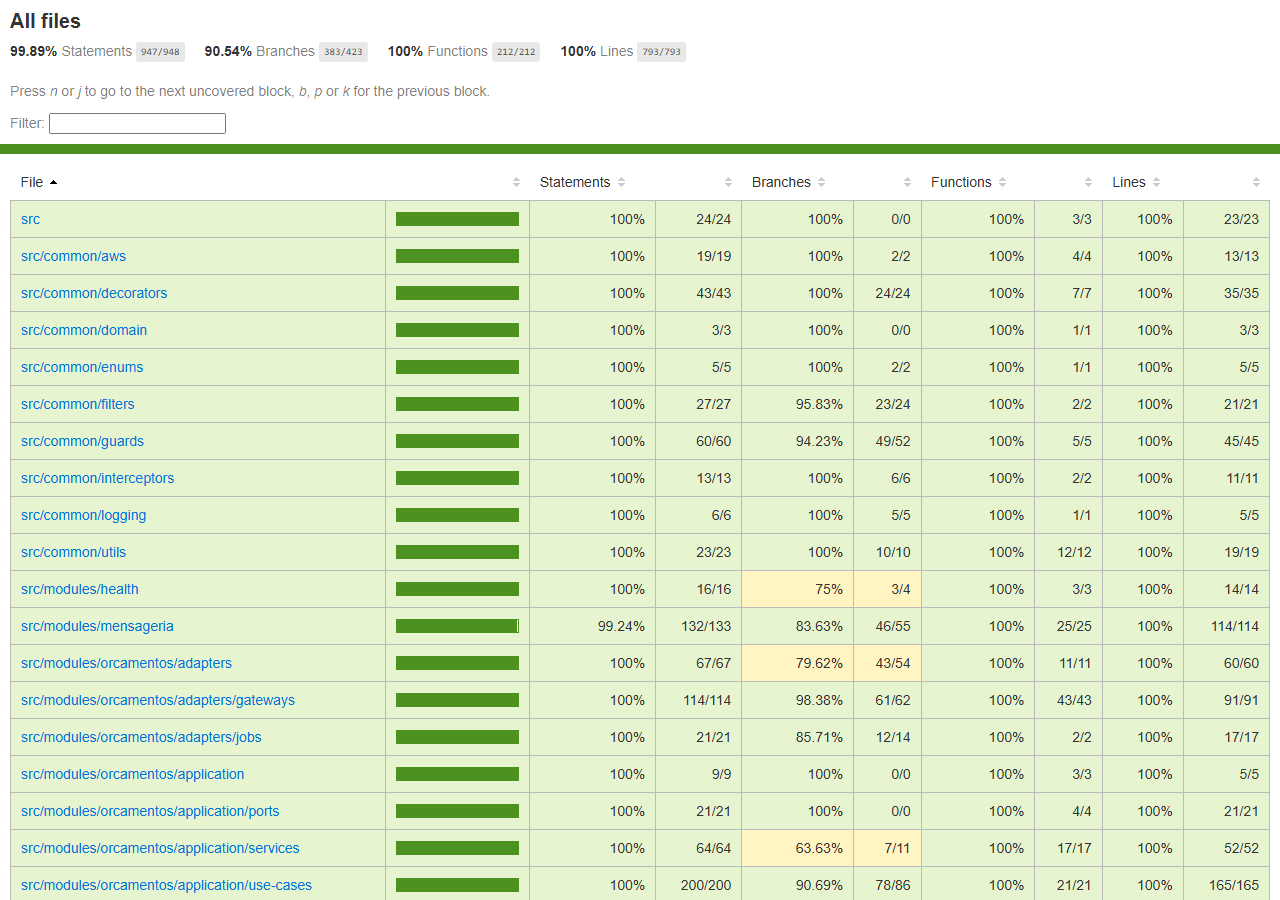
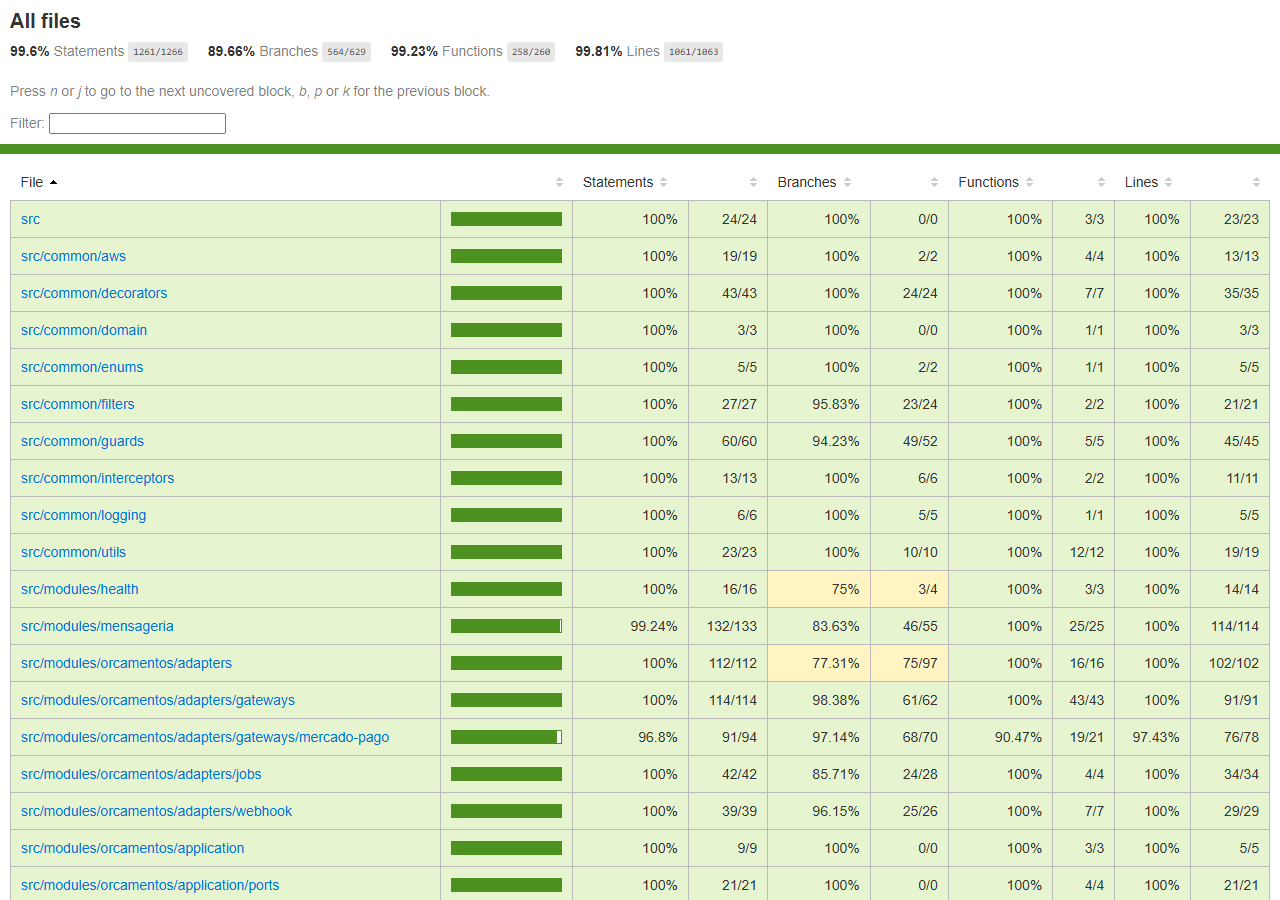
docs: pagamento com Mercado Pago, webhook, reconciliacao e retentativa de estorno

diff --git a/docs/arquitetura.md b/docs/arquitetura.md
@@ -10,6 +10,7 @@ O billing-service cuida do **orçamento** da ordem de serviço e do **pagamento*
 | Expõe ao cliente a consulta, a aprovação e a rejeição do orçamento | Guardar cliente, veículo ou catálogo como fonte de verdade (recebe uma cópia no comando) |
 | Cria a cobrança de pagamento quando o cliente aprova e devolve o `linkPagamento` | Executar diagnóstico ou reparo (execution-service) |
 | Cancela o orçamento e estorna o pagamento quando o orquestrador compensa | Publicar evento sem antes gravá-lo junto do efeito (outbox, seção 7) |
+| Recebe a notificação de pagamento do Mercado Pago (webhook assinado), confirma na API e publica `PagamentoConfirmado` | |
 | Publica o resultado de cada comando como evento (`OrcamentoGerado`, `OrcamentoCancelado`, `PagamentoEstornado` etc.) | |
 
 Rotas, filas e mensagens completas estão em [`contratos/README.md`](../contratos/README.md).
@@ -23,6 +24,7 @@ flowchart LR
     subgraph entrada["Adapters de entrada"]
         ctrlCli["OrcamentosClienteController<br/>/billing/cliente/orcamentos"]
         ctrlStaff["OrcamentosController<br/>/billing/orcamentos"]
+        ctrlWh["WebhookMercadoPagoController<br/>/billing/webhooks/mercado-pago"]
         cons["ConsumidorComandosBilling<br/>fila billing-comandos"]
     end
 
@@ -33,6 +35,10 @@ flowchart LR
         ucCancelar["CancelarOrcamento"]
         ucEstornar["EstornarPagamento"]
         ucConsulta["Consultar e Listar"]
+        ucNotif["ProcessarNotificacaoPagamento"]
+        ucReconc["ReconciliarPagamentos"]
+        ucRegistrar["RegistrarPagamento"]
+        ucRetentar["RetentarEstornos"]
         svcEventos["EventosOrcamentoService<br/>grava efeito + eventos e publica"]
         svcEstorno["EstornoService"]
     end
@@ -49,35 +55,48 @@ flowchart LR
 
     subgraph saida["Adapters de saída"]
         aDdb["OrcamentosDynamoDbGateway"]
-        aSim["GatewayPagamentoSimulado<br/>adapter atual"]
-        aMp["Adapter Mercado Pago<br/>adapter-alvo da mesma porta"]
+        aMp["MercadoPagoGateway<br/>com MERCADO_PAGO_ACCESS_TOKEN"]
+        aSim["GatewayPagamentoSimulado<br/>sem token: local e testes"]
         aSns["SnsSqsPublicador"]
         job["RepublicacaoEventosJob<br/>a cada 15 s"]
+        jobEst["RetentativaEstornosJob<br/>a cada 60 s"]
     end
 
     ctrlCli --> ucAprovar & ucRejeitar & ucConsulta
-    ctrlStaff --> ucConsulta
+    ctrlStaff --> ucConsulta & ucReconc
+    ctrlWh --> ucNotif
     cons --> ucGerar & ucCancelar & ucEstornar
-    ucGerar & ucAprovar & ucRejeitar & ucCancelar --> svcEventos
-    ucEstornar --> svcEstorno --> svcEventos
-    ucGerar & ucAprovar & ucRejeitar & ucCancelar & ucEstornar --> orc
-    ucAprovar --> pPag
+    ucNotif & ucReconc --> ucRegistrar
+    ucGerar & ucAprovar & ucRejeitar & ucCancelar & ucRegistrar --> svcEventos
+    ucEstornar & ucRetentar --> svcEstorno --> svcEventos
+    ucGerar & ucAprovar & ucRejeitar & ucCancelar & ucEstornar & ucRegistrar --> orc
+    ucAprovar & ucNotif & ucReconc & ucRegistrar --> pPag
     svcEstorno --> pPag
-    ucGerar & ucAprovar & ucCancelar & ucEstornar & ucConsulta --> pOrc
+    ucGerar & ucAprovar & ucCancelar & ucEstornar & ucConsulta & ucReconc & ucRegistrar & ucRetentar --> pOrc
     svcEventos --> pOrc & pPub
     pOrc -.-> aDdb
-    pPag -.-> aSim
     pPag -.-> aMp
+    pPag -.-> aSim
     pPub -.-> aSns
     job --> svcEventos
+    jobEst --> ucRetentar
     aDdb --> ddb[("DynamoDB<br/>oficina-billing-env")]
     aSns --> sns{{"SNS oficina-env-eventos"}}
     aMp --> mp(["Mercado Pago"])
 ```
 
-Ligação das portas (`orcamentos.module.ts:38-39`): `ORCAMENTOS_GATEWAY` → `OrcamentosDynamoDbGateway` e `GATEWAY_PAGAMENTO` → `GatewayPagamentoSimulado`.
+Ligação das portas (`orcamentos.module.ts:58-59`): `ORCAMENTOS_GATEWAY` → `OrcamentosDynamoDbGateway` e `GATEWAY_PAGAMENTO` → `criarGatewayPagamento()` (`orcamentos.module.ts:31-35`), que devolve o `MercadoPagoGateway` quando há `MERCADO_PAGO_ACCESS_TOKEN` e, sem ele, o `GatewayPagamentoSimulado` com o aviso `billing.pagamento.gateway-simulado` no log.
 
-**Situação do pagamento.** O adapter de pagamento em uso hoje é o `GatewayPagamentoSimulado` (`gateway-pagamento.simulado.ts`): devolve um link `https://pagamento.simulado.local/checkout/<orcamentoId>`, guarda pagamentos e estornos em memória e não movimenta dinheiro. O **Mercado Pago (Checkout Pro) é o adapter-alvo da mesma `GatewayPagamentoPort`**, decisão registrada na [ADR 013](https://github.com/FIAP-POS-TECH-SOFTWARE-ARCHITECTURE/tc-oficina-os-service/blob/main/docs/arquitetura/adrs/adr-013-pagamento-antes-do-reparo-mercado-pago.md): trocá-lo não altera use cases nem domínio, só a classe ligada ao token `GATEWAY_PAGAMENTO`. A porta já declara as quatro operações que esse adapter precisa: `criarCobranca`, `consultarPagamento`, `buscarPagamentosPorOrcamento` e `estornar(pagamentoId, chaveIdempotencia)` (`gateway-pagamento.port.ts:51-57`).
+**Pagamento.** O adapter real é o `MercadoPagoGateway` (`adapters/gateways/mercado-pago/`), sobre o SDK oficial `mercadopago` e a **API de Orders do Checkout Pro**, decisão registrada na [ADR 013](https://github.com/FIAP-POS-TECH-SOFTWARE-ARCHITECTURE/tc-oficina-os-service/blob/main/docs/arquitetura/adrs/adr-013-pagamento-antes-do-reparo-mercado-pago.md). Ele implementa as quatro operações da porta (`gateway-pagamento.port.ts:51-57`):
+
+| Operação | No Mercado Pago |
+| --- | --- |
+| `criarCobranca` | `orders.create` com `external_reference = orcamentoId`, os itens do orçamento, `expiration_time` igual ao prazo de pagamento da orquestração e chave de idempotência `order-<orcamentoId>`; devolve o `checkout_url` como `linkPagamento`. Uma nova tentativa com a mesma chave reaproveita a order já criada. |
+| `consultarPagamento` | `orders.get` pelo id da order |
+| `buscarPagamentosPorOrcamento` | `orders.search` por `external_reference` nos últimos 28 dias (usada pela reconciliação) |
+| `estornar` | `orders.refund` com a chave de idempotência recebida |
+
+O `GatewayPagamentoSimulado` (`gateway-pagamento.simulado.ts`) continua atrás da mesma porta: devolve um link `https://pagamento.simulado.local/checkout/<orcamentoId>`, guarda pagamentos e estornos em memória e não movimenta dinheiro. Ele atende o ambiente local sem conta e os testes BDD. Trocar um pelo outro não altera use cases nem domínio.
 
 ## 3. Rotas
 
@@ -90,10 +109,12 @@ Todas passam pelo API Gateway com o prefixo `/billing` (o gateway não reescreve
 | `POST /billing/cliente/orcamentos/:numeroOs/rejeitar` | cliente dono da OS | rejeitar: `422` fora de `AGUARDANDO_APROVACAO` |
 | `GET /billing/orcamentos/:numeroOs` | `ATENDENTE`, `ADMINISTRADOR` | consultar |
 | `GET /billing/orcamentos?status=` | `ATENDENTE`, `ADMINISTRADOR` | listar por status |
+| `POST /billing/orcamentos/:numeroOs/reconciliar` | `ATENDENTE`, `ADMINISTRADOR` | reconciliar pagamentos (seção 8) |
+| `POST /billing/webhooks/mercado-pago` | Mercado Pago, pública com `x-signature` | processar notificação de pagamento (seção 8) |
 | `GET /health` | pública, sem prefixo | probe do Kubernetes |
 | `GET /health/ready` | pública, sem prefixo | readiness (consulta o DynamoDB) |
 
-Origem no código: `orcamentos-cliente.controller.ts` (`@Controller("billing/cliente/orcamentos")`, linhas 18, 26, 33 e 41), `orcamentos.controller.ts` (`@Controller("billing/orcamentos")`, linhas 14, 21 e 28).
+Origem no código: `orcamentos-cliente.controller.ts` (`@Controller("billing/cliente/orcamentos")`, linhas 18, 26, 33 e 41), `orcamentos.controller.ts` (`@Controller("billing/orcamentos")`, linhas 17, 25, 32 e 39), `webhook-mercado-pago.controller.ts` (`@Controller("billing/webhooks")`, linhas 29 e 36).
 
 ## 4. Máquina de estados do orçamento
 
@@ -121,7 +142,7 @@ Observações, todas conferidas no código:
 - **Estado inicial.** `Orcamento.criar` cria o orçamento em `AGUARDANDO_APROVACAO` com `versao = 1` (`orcamento.entity.ts:100`).
 - **`CANCELADO → PAGO`.** Um pagamento que chega depois do cancelamento é registrado (campo `pagamentoAtrasado = true`, `orcamento.entity.ts:236-243`); o orquestrador então manda `EstornarPagamento`.
 - **Cancelar depois de pago.** Se o orçamento já tem pagamento (`PAGO`, `ESTORNO_PENDENTE`, `ESTORNADO`), `CancelarOrcamento` não muda o status: o status reflete o dinheiro, e só registra `canceladoEm` e o motivo (`registrarCancelamentoSemMudarStatus`, `orcamento.entity.ts:225-233`). Em `REJEITADO` ou `CANCELADO` o comando só reemite o evento `OrcamentoCancelado`.
-- **Transições sem ponto de entrada ainda.** `confirmar_pagamento` e `registrar_falha_estorno` existem no domínio (com testes unitários em `orcamento.entity.spec.ts`), mas nenhum use case as chama hoje: elas dependem do webhook e do adapter do Mercado Pago (seção 8) e do reagendamento de estorno (seção 9). Por isso `PagamentoConfirmado` e `EstornoFalhou` constam do catálogo de eventos do contrato, mas nenhum código de produção os emite ainda.
+- **Quem dispara cada transição de pagamento.** `confirmar_pagamento` vem do `RegistrarPagamentoUseCase`, chamado pelo webhook e pela reconciliação (seção 8); `registrar_falha_estorno` e o `estornar` a partir de `ESTORNO_PENDENTE` vêm do `EstornoService`, chamado pelo comando `EstornarPagamento` e pela retentativa agendada (seção 9).
 
 ## 5. Modelo de dados: tabela única no DynamoDB
 
@@ -167,7 +188,7 @@ Contrato completo (envelope, atributos, catálogo, regras de idempotência e sch
 | Sentido | Canal | Mensagens |
 | --- | --- | --- |
 | Consome | fila `oficina-<env>-billing-comandos` (DLQ `-dlq`) | `GerarOrcamento`, `CancelarOrcamento`, `EstornarPagamento` (`consumidor-comandos-billing.ts:31-40`) |
-| Produz | tópico SNS `oficina-<env>-eventos`, `origem: billing` | `OrcamentoGerado`, `FalhaGerarOrcamento`, `OrcamentoAprovado`, `OrcamentoRejeitado`, `OrcamentoCancelado`, `PagamentoEstornado` (emitidos hoje); `PagamentoConfirmado`, `EstornoFalhou` (tipos declarados em `eventos-billing.ts:9-12`, sem emissor ainda) |
+| Produz | tópico SNS `oficina-<env>-eventos`, `origem: billing` | `OrcamentoGerado`, `FalhaGerarOrcamento`, `OrcamentoAprovado`, `OrcamentoRejeitado`, `OrcamentoCancelado`, `PagamentoConfirmado` (webhook e reconciliação), `PagamentoEstornado`, `EstornoFalhou` (falha do estorno no provedor) |
 
 Comportamento do consumidor (`consumidor-sqs.ts`): long polling de 20 s, lote de até 10, validação do envelope contra os schemas do contrato e **exclusão da mensagem só depois** de o use case terminar sem erro (linha 101). Mensagem fora do contrato ou erro de processamento não apagam: a mensagem volta após o visibility timeout e, na quinta entrega, vai para a DLQ.
 
@@ -177,7 +198,7 @@ Respostas de cada comando:
 | --- | --- |
 | `GerarOrcamento` | `OrcamentoGerado`; `FalhaGerarOrcamento{motivo:"VALOR_TOTAL_INCONSISTENTE"}` se o total não bate; `FalhaGerarOrcamento{motivo:"ORCAMENTO_ENCERRADO"}` se já houve orçamento da OS e ele não está mais ativo; `OrcamentoCancelado{orcamentoId:null}` se o fluxo já tinha sido cancelado |
 | `CancelarOrcamento` | `OrcamentoCancelado` (com `orcamentoId:null` quando o orçamento ainda não existe) |
-| `EstornarPagamento` | `PagamentoEstornado` (com `pagamentoId:null` e `valorCentavos:0` quando não há pagamento a estornar) |
+| `EstornarPagamento` | `PagamentoEstornado` (com `pagamentoId:null` e `valorCentavos:0` quando não há pagamento a estornar); `EstornoFalhou{proximaTentativaEm}` se o provedor falhar |
 
 ## 7. Idempotência e publicação confiável (outbox)
 
@@ -187,13 +208,17 @@ Respostas de cada comando:
 
 ## 8. Webhook de pagamento
 
-O contrato prevê `POST /billing/webhooks/mercado-pago` (pública, validada por `x-signature`): `200` para assinatura válida (inclusive notificação duplicada ou de tipo ignorado), `401` para assinatura inválida e `503` em falha temporária, para o provedor reenviar. O API Gateway já roteia essa rota e o `app.setup.ts` já a isenta do rate limit (`ROTAS_SEM_LIMITE`, linha 15).
+`POST /billing/webhooks/mercado-pago` (`webhook-mercado-pago.controller.ts`) é pública e responde `200` para assinatura válida (inclusive notificação duplicada ou de tipo ignorado), `401` para assinatura inválida e `503` em falha temporária, para o provedor reenviar. O API Gateway roteia essa rota sem authorizer e o `app.setup.ts` a isenta do rate limit (`ROTAS_SEM_LIMITE`, linha 15).
 
-O que existe hoje no serviço:
+Caminho de uma notificação:
 
-- **Persistência pronta para a idempotência do webhook.** `EfeitosGravacao.notificacaoProcessada` grava um item `WEBHOOK#<pagamentoId>#<status>` com `attribute_not_exists(pk)` na mesma transação do efeito (`orcamentos.dynamodb.gateway.ts:233-240`); notificação repetida vira `MensagemJaProcessadaError`, e `notificacaoJaProcessada` consulta a chave. Os pagamentos conhecidos entram como itens `PAGAMENTO#` na mesma transação.
-- **Porta de consulta ao provedor.** `consultarPagamento` e `buscarPagamentosPorOrcamento` já existem na `GatewayPagamentoPort`, para a notificação ser confirmada junto ao provedor e para a reconciliação por `external_reference`.
-- **Ainda não existe** o controller do webhook (nem a validação de `x-signature`), a rota de reconciliação, a chamada a `confirmarPagamento` e a emissão de `PagamentoConfirmado`. Eles chegam com o adapter do Mercado Pago, o adapter-alvo decidido na [ADR 013](https://github.com/FIAP-POS-TECH-SOFTWARE-ARCHITECTURE/tc-oficina-os-service/blob/main/docs/arquitetura/adrs/adr-013-pagamento-antes-do-reparo-mercado-pago.md).
+1. **Assinatura.** `validarAssinaturaMercadoPago` (`webhook/assinatura-mercado-pago.ts`) monta o manifesto `id:<data.id>;request-id:<x-request-id>;ts:<ts>;`, calcula o HMAC SHA-256 com `MERCADO_PAGO_WEBHOOK_SECRET` e compara com o `v1` do `x-signature` em tempo constante. Recusa também `ts` fora da tolerância de 1 hora. Falha gera `401` e o log `billing.webhook.assinatura-invalida` com o motivo.
+2. **Tipo.** Só notificações de order (`type` `order` ou `orders_v2`) seguem; as demais respondem `200` com `processado: false`.
+3. **Consulta.** `ProcessarNotificacaoPagamentoUseCase` ignora o corpo e consulta a order na API do Mercado Pago (`consultarPagamento`): o estado que vale é o do provedor, nunca o da notificação.
+4. **Registro.** `RegistrarPagamentoUseCase` aplica as regras: pagamento não aprovado não muda nada (`NAO_APROVADO`); pagamento já registrado ou notificação já vista responde `JA_REGISTRADO`; um segundo pagamento do mesmo orçamento, valor diferente do orçamento ou orçamento em estado que não aceita pagamento são **estornados na hora**, sem passar pelo orquestrador; nos demais casos o orçamento vai a `PAGO` e `PagamentoConfirmado` entra na outbox, junto do item `WEBHOOK#<pagamentoId>#<status>` e do `PAGAMENTO#`, na mesma transação. Pagamento de orçamento já `CANCELADO` é confirmado com `pagamentoAtrasado = true`, e o orquestrador responde com `EstornarPagamento`.
+5. **Falha temporária.** Conflito de versão ou erro temporário do provedor viram `503`, e o Mercado Pago reenvia.
+
+**Reconciliação.** Quando uma notificação se perde, `POST /billing/orcamentos/:numeroOs/reconciliar` (staff) busca no Mercado Pago as orders do orçamento por `external_reference` e passa cada uma pelo mesmo `RegistrarPagamentoUseCase`. É idempotente: rodar de novo devolve `JA_REGISTRADO` para o que já foi confirmado.
 
 ## 9. Estorno e retentativa
 
@@ -201,11 +226,13 @@ O que existe hoje no serviço:
 
 1. Mensagem já processada: sai sem efeito.
 2. Orçamento sem pagamento ou já `ESTORNADO`: responde `PagamentoEstornado` imediatamente (com `pagamentoId: null` e valor `0` quando nunca houve pagamento), para o orquestrador não ficar preso compensando.
-3. Caso normal: `EstornoService.estornar` chama `GatewayPagamentoPort.estornar(pagamentoId, "estorno-<orcamentoId>")`. A **chave de idempotência** faz o provedor devolver o mesmo estorno se a chamada se repetir (o adapter simulado reproduz esse comportamento, `gateway-pagamento.simulado.ts:40-41`). Em seguida o orçamento vai a `ESTORNADO` e `PagamentoEstornado` entra na outbox, tudo numa transação (`estorno.service.ts:18-27`).
+3. Caso normal: `EstornoService.estornar` chama `GatewayPagamentoPort.estornar(pagamentoId, "estorno-<orcamentoId>")`. A **chave de idempotência** faz o provedor devolver o mesmo estorno se a chamada se repetir (o adapter simulado reproduz esse comportamento, `gateway-pagamento.simulado.ts:40-41`). Em seguida o orçamento vai a `ESTORNADO` e `PagamentoEstornado` entra na outbox, tudo numa transação (`estorno.service.ts:23-46`).
 
-Se o provedor falha, o erro sobe, a mensagem **não é apagada** e o SQS a reentrega depois do visibility timeout de 60 s; na quinta entrega ela vai para a DLQ `oficina-<env>-billing-comandos-dlq`. Além disso, o orquestrador reenvia a compensação sem resposta a cada prazo, com `messageId` novo, até três vezes, e depois marca o fluxo como falha técnica (ver [sequência de compensação](https://github.com/FIAP-POS-TECH-SOFTWARE-ARCHITECTURE/tc-oficina-os-service/blob/main/docs/arquitetura/sequencia-compensacao.md)).
+**Falha do provedor** (`estorno.service.ts:56-87`). Antes de registrar a falha, o serviço consulta o pagamento: se ele já está `refunded` no Mercado Pago (reembolso pelo painel, por outra chave ou `409` de order já reembolsada), o estorno conta como feito. Caso contrário o orçamento vai a `ESTORNO_PENDENTE`, com `tentativasEstorno`, `proximaTentativaEstornoEm` e `ultimoErroEstorno` (`orcamento.entity.ts:249-255`), e `EstornoFalhou{proximaTentativaEm}` entra na outbox na mesma transação. O `messageId` do comando é gravado junto, então o comando não volta para a fila e uma reentrega não duplica o evento.
 
-O domínio já modela o estado `ESTORNO_PENDENTE`, com `tentativasEstorno`, `proximaTentativaEstornoEm` e `ultimoErroEstorno` (`orcamento.entity.ts:249-255`), e o contrato define o evento `EstornoFalhou{proximaTentativaEm}`. A retentativa agendada pelo próprio billing e a emissão desse evento ainda não estão ligadas: hoje a retentativa é a do SQS e a do orquestrador, descritas acima.
+**Retentativa.** O `RetentativaEstornosJob` roda a cada 60 s (respeita `WORKERS_HABILITADOS` e não reentra) e o `RetentarEstornosUseCase` tenta de novo os orçamentos em `ESTORNO_PENDENTE` com a próxima tentativa vencida. O intervalo cresce a cada falha: 1, 5, 15 e 60 minutos (`BACKOFF_ESTORNO_MINUTOS`); da quinta falha em diante continua de hora em hora com o log de erro `billing.estorno.esgotado`, para alguém olhar. Quando uma retentativa dá certo, sai `PagamentoEstornado`. Do lado do orquestrador, `EstornoFalhou` adia o prazo da compensação em vez de reenviar o comando (ver [sequência de compensação](https://github.com/FIAP-POS-TECH-SOFTWARE-ARCHITECTURE/tc-oficina-os-service/blob/main/docs/arquitetura/sequencia-compensacao.md)).
+
+Erro que não vem do provedor (DynamoDB fora, por exemplo) continua subindo: a mensagem não é apagada, o SQS a reentrega depois do visibility timeout de 60 s e, na quinta entrega, ela vai para a DLQ `oficina-<env>-billing-comandos-dlq`.
 
 ## 10. Papel no fluxo da OS
 
@@ -215,8 +242,8 @@ O fluxo da OS é coordenado por uma **Saga orquestrada** (Saga Pattern): um orqu
 | --- | --- | --- | --- |
 | Gerar orçamento | `GerarOrcamento` | cria o orçamento em `AGUARDANDO_APROVACAO` | `OrcamentoGerado` / `FalhaGerarOrcamento` |
 | Compensar: desfazer o orçamento | `CancelarOrcamento` | `AGUARDANDO_APROVACAO` ou `APROVADO` → `CANCELADO` | `OrcamentoCancelado` |
-| Compensar: devolver o dinheiro | `EstornarPagamento` | `PAGO` → `ESTORNADO` (sem pagamento registrado, só reemite `PagamentoEstornado` com `pagamentoId` nulo) | `PagamentoEstornado` / `EstornoFalhou` (este último ainda não emitido) |
+| Compensar: devolver o dinheiro | `EstornarPagamento` | `PAGO` → `ESTORNADO` (sem pagamento registrado, só reemite `PagamentoEstornado` com `pagamentoId` nulo) | `PagamentoEstornado` / `EstornoFalhou` |
 
-A aprovação e a rejeição acontecem por HTTP, pelo cliente, e viram os eventos `OrcamentoAprovado` e `OrcamentoRejeitado`, que o orquestrador consome para avançar. O pagamento é o último passo antes do reparo (contramedida de *visão pessimista*: o reparo só começa com o dinheiro já confirmado).
+A aprovação e a rejeição acontecem por HTTP, pelo cliente, e viram os eventos `OrcamentoAprovado` e `OrcamentoRejeitado`, que o orquestrador consome para avançar. O pagamento chega pelo webhook do Mercado Pago e vira `PagamentoConfirmado`, que libera o reparo. O pagamento é o último passo antes do reparo (contramedida de *visão pessimista*: o reparo só começa com o dinheiro já confirmado).
 
 Para o conjunto da solução, ver no os-service a [visão geral](https://github.com/FIAP-POS-TECH-SOFTWARE-ARCHITECTURE/tc-oficina-os-service/blob/main/docs/arquitetura/visao-geral-microsservicos.md), a [sequência do fluxo da OS](https://github.com/FIAP-POS-TECH-SOFTWARE-ARCHITECTURE/tc-oficina-os-service/blob/main/docs/arquitetura/sequencia-fluxo-os.md), a [sequência de compensação](https://github.com/FIAP-POS-TECH-SOFTWARE-ARCHITECTURE/tc-oficina-os-service/blob/main/docs/arquitetura/sequencia-compensacao.md) e a [ADR 008 (Saga orquestrada)](https://github.com/FIAP-POS-TECH-SOFTWARE-ARCHITECTURE/tc-oficina-os-service/blob/main/docs/arquitetura/adrs/adr-008-saga-orquestrada.md).

diff --git a/README.md b/README.md
@@ -14,8 +14,9 @@ Na Fase 4 o monólito da Fase 3 foi dividido em três microsserviços (`os-servi
 
 - **orçamento**: gera o orçamento a partir do comando `GerarOrcamento` (validando que o total é a
   soma dos itens) e expõe ao cliente a consulta, a aprovação e a rejeição;
-- **pagamento**: na aprovação, cria a cobrança e devolve o `linkPagamento` ao cliente; no estorno,
-  chama o provedor com chave de idempotência;
+- **pagamento**: na aprovação, cria a cobrança no Mercado Pago e devolve o `linkPagamento` ao
+  cliente; recebe a notificação de pagamento pelo webhook assinado e publica `PagamentoConfirmado`;
+  no estorno, chama o provedor com chave de idempotência e, se ele falhar, agenda novas tentativas;
 - **compensações**: cancela o orçamento (`CancelarOrcamento`) e estorna o pagamento
   (`EstornarPagamento`) quando o orquestrador desfaz o fluxo.
 
@@ -25,11 +26,13 @@ código, módulo `orquestracao-os`, com o estado em `FluxoOrdemServico` e o coor
 `OrquestradorOrdemServico`). O billing não tem lógica de orquestração e não conhece o
 `execution-service`: recebe comandos e publica eventos.
 
-**Pagamento.** Hoje o provedor é um adapter simulado (`gateway-pagamento.simulado.ts`) atrás da
-porta `GatewayPagamentoPort`. O Mercado Pago é o adapter-alvo da mesma porta
-([ADR-013](https://github.com/FIAP-POS-TECH-SOFTWARE-ARCHITECTURE/tc-oficina-os-service/blob/main/docs/arquitetura/adrs/adr-013-pagamento-antes-do-reparo-mercado-pago.md));
-por isso ainda não há controller de webhook de pagamento (detalhes em
-[`docs/arquitetura.md`](docs/arquitetura.md)).
+**Pagamento.** O provedor é o Mercado Pago (Checkout Pro pela API de Orders), atrás da porta
+`GatewayPagamentoPort`
+([ADR-013](https://github.com/FIAP-POS-TECH-SOFTWARE-ARCHITECTURE/tc-oficina-os-service/blob/main/docs/arquitetura/adrs/adr-013-pagamento-antes-do-reparo-mercado-pago.md)).
+O adapter é escolhido na subida: com `MERCADO_PAGO_ACCESS_TOKEN` o serviço usa o
+`MercadoPagoGateway`; sem ele, usa o `GatewayPagamentoSimulado` e avisa no log
+(`billing.pagamento.gateway-simulado`), o que mantém o ambiente local e os testes sem conta
+externa (detalhes em [`docs/arquitetura.md`](docs/arquitetura.md)).
 
 A aplicação roda atrás do **API Gateway HTTP API** (rotas com o prefixo `/billing`) em dois
 ambientes, `homolog` e `prod`, separados por namespace no EKS, e emite telemetria para o New
@@ -44,6 +47,7 @@ Relic (APM, logs estruturados e rastreamento distribuído entre os serviços).
 | Banco | Amazon DynamoDB, tabela única `oficina-billing-<env>` (chaves `pk`/`sk` e índice `gsi1`) |
 | Acesso a dados | AWS SDK v3 (`@aws-sdk/lib-dynamodb`), escrita condicional por `versao` |
 | Mensageria | Amazon SNS + SQS (AWS SDK v3), com outbox no próprio DynamoDB e idempotência por `messageId` |
+| Pagamento | Mercado Pago (SDK oficial `mercadopago`, API de Orders do Checkout Pro), webhook com assinatura HMAC `x-signature` |
 | Contratos | JSON Schema (Ajv) em [`contratos/`](contratos/README.md), validados na publicação e no consumo |
 | Auth | JWT HS256 (`@nestjs/jwt`): token de staff (papéis `ATENDENTE`, `ADMINISTRADOR`) e token de cliente emitido pela Lambda |
 | Testes | Jest 30 + `jest-cucumber` (BDD) + Supertest + Testcontainers + MiniStack |
@@ -70,10 +74,11 @@ Visão da solução e decisão da Saga, no `os-service`:
 | --- | --- | --- | --- |
 | Gerar orçamento | `GerarOrcamento` | cria o orçamento em `AGUARDANDO_APROVACAO` | `OrcamentoGerado` / `FalhaGerarOrcamento` |
 | Compensar: desfazer o orçamento | `CancelarOrcamento` | `AGUARDANDO_APROVACAO` ou `APROVADO` → `CANCELADO` | `OrcamentoCancelado` |
-| Compensar: devolver o dinheiro | `EstornarPagamento` | `PAGO` → `ESTORNADO` (sem pagamento registrado, só reemite `PagamentoEstornado` com `pagamentoId` nulo) | `PagamentoEstornado` |
+| Compensar: devolver o dinheiro | `EstornarPagamento` | `PAGO` → `ESTORNADO`; se o provedor falhar, `PAGO` → `ESTORNO_PENDENTE` com retentativa agendada (sem pagamento registrado, só reemite `PagamentoEstornado` com `pagamentoId` nulo) | `PagamentoEstornado` / `EstornoFalhou` |
 
 A aprovação e a rejeição acontecem por HTTP, pelo cliente, e viram os eventos `OrcamentoAprovado`
-e `OrcamentoRejeitado`, que o orquestrador consome para avançar. O pagamento é o último passo
+e `OrcamentoRejeitado`, que o orquestrador consome para avançar. O pagamento chega pelo webhook do
+Mercado Pago e vira `PagamentoConfirmado`, que libera o reparo. O pagamento é o último passo
 antes do reparo (contramedida de *visão pessimista* contra *dirty read*). Contra *lost update*,
 o billing aplica a contramedida **rever/reler valor**: toda escrita no DynamoDB é condicional por
 `versao`, então a aprovação do cliente que corre contra um `CancelarOrcamento` não sobrescreve a
@@ -91,11 +96,10 @@ de idempotência: [`contratos/README.md`](contratos/README.md).
 | Sentido | Recurso | Tipos de mensagem |
 | --- | --- | --- |
 | Consome (comando) | fila `oficina-<env>-billing-comandos` (origem `os`) | `GerarOrcamento`, `CancelarOrcamento`, `EstornarPagamento` |
-| Produz (evento) | tópico SNS `oficina-<env>-eventos` (`origem: billing`) | `OrcamentoGerado`, `FalhaGerarOrcamento`, `OrcamentoAprovado`, `OrcamentoRejeitado`, `OrcamentoCancelado`, `PagamentoEstornado` |
+| Produz (evento) | tópico SNS `oficina-<env>-eventos` (`origem: billing`) | `OrcamentoGerado`, `FalhaGerarOrcamento`, `OrcamentoAprovado`, `OrcamentoRejeitado`, `OrcamentoCancelado`, `PagamentoConfirmado`, `PagamentoEstornado`, `EstornoFalhou` |
 
-`PagamentoConfirmado` e `EstornoFalhou` estão no catálogo do contrato, mas dependem do adapter do
-Mercado Pago e ainda não são emitidos. Os eventos saem por um outbox gravado na mesma transação
-do efeito, republicado por um job a cada 15 s se a publicação imediata falhar.
+Os eventos saem por um outbox gravado na mesma transação do efeito, republicado por um job a cada
+15 s se a publicação imediata falhar.
 
 ### Síncrona (REST)
 
@@ -105,6 +109,8 @@ do efeito, republicado por um job a cada 15 s se a publicação imediata falhar.
 | `POST /billing/cliente/orcamentos/:numeroOs/aprovar` | cliente dono da OS | token de cliente; `422` fora de `AGUARDANDO_APROVACAO` ou com prazo vencido |
 | `POST /billing/cliente/orcamentos/:numeroOs/rejeitar` | cliente dono da OS | token de cliente; `422` fora de `AGUARDANDO_APROVACAO` |
 | `GET /billing/orcamentos/:numeroOs`, `GET /billing/orcamentos?status=` | staff | JWT interno (`ATENDENTE`, `ADMINISTRADOR`) |
+| `POST /billing/orcamentos/:numeroOs/reconciliar` | staff, quando a notificação de pagamento se perdeu | JWT interno (`ATENDENTE`, `ADMINISTRADOR`) |
+| `POST /billing/webhooks/mercado-pago` | Mercado Pago | pública, validada por `x-signature`; `401` com assinatura inválida, `503` em falha temporária |
 | `GET /health`, `GET /health/ready` | probes do Kubernetes | pública |
 
 ## Como executar localmente ✱
@@ -152,8 +158,15 @@ Variáveis (base em [`.env.example`](.env.example)):
 | `AWS_REGION`, `AWS_ENDPOINT_URL`, `AWS_ACCESS_KEY_ID`, `AWS_SECRET_ACCESS_KEY` | AWS SDK; as três últimas só no emulador local |
 | `DYNAMODB_TABLE` | tabela do serviço |
 | `SNS_EVENTOS_ARN`, `SQS_BILLING_COMANDOS_URL` | mensageria |
-| `WORKERS_HABILITADOS` | `false` desliga o consumidor da fila e o job de republicação |
+| `WORKERS_HABILITADOS` | `false` desliga o consumidor da fila e os jobs de republicação e de retentativa de estorno |
+| `MERCADO_PAGO_ACCESS_TOKEN` | access token da aplicação no Mercado Pago; vazio usa o gateway simulado |
+| `MERCADO_PAGO_WEBHOOK_SECRET` | segredo da assinatura do webhook (`x-signature`) |
+| `MERCADO_PAGO_NOTIFICATION_URL` | URL pública do webhook enviada na criação da order; vazio usa a configurada no painel do Mercado Pago |
 | `NEW_RELIC_LICENSE_KEY` | observabilidade (no cluster) |
+
+O token de teste do Mercado Pago fica só no `.env` local, nunca versionado.
+`scripts/mercado-pago-sandbox.ts` cria, consulta, busca e estorna orders de teste, e
+`scripts/assinar-notificacao-mercado-pago.ts` gera um `x-signature` válido para simular o webhook.
 
 ## Testes e qualidade ✱
 
@@ -165,26 +178,29 @@ npm run lint:check
 npm run sonar:up && npm run sonar:scan   # SonarQube local com quality gate
 ```
 
-O cenário BDD fica em [`test/bdd/features/aprovacao-orcamento.feature`](test/bdd/features/aprovacao-orcamento.feature)
-(aprovação, rejeição, orçamento já cancelado, cliente de outra OS e comando duplicado); os steps
-estão em `test/bdd/steps/`. Os testes de integração ficam em `test/integracao/`.
+Os cenários BDD (11) ficam em duas features:
+[`aprovacao-orcamento.feature`](test/bdd/features/aprovacao-orcamento.feature) (aprovação,
+rejeição, orçamento já cancelado, cliente de outra OS e comando duplicado) e
+[`pagamento.feature`](test/bdd/features/pagamento.feature) (pagamento confirmado, notificação
+repetida, pagamento pendente, pagamento depois do cancelamento, estorno que falha e é retentado,
+valor divergente). Os steps estão em `test/bdd/steps/` e usam o gateway simulado, sem chamar o
+Mercado Pago. Os testes de integração ficam em `test/integracao/`.
 
-**Cobertura** — medida localmente com `npm run test:cov` (41 suítes, 331 testes, todos verdes):
+**Cobertura** — medida localmente com `npm run test:cov` (52 suítes, 463 testes, todos verdes):
 
 | Métrica | Cobertura | Cobertos / total |
 | --- | --- | --- |
-| Statements | 99,89% | 947 / 948 |
-| Branches | 90,54% | 383 / 423 |
-| Functions | 100% | 212 / 212 |
-| Lines | 100% | 793 / 793 |
+| Statements | 99,6% | 1261 / 1266 |
+| Branches | 89,66% | 564 / 629 |
+| Functions | 99,23% | 258 / 260 |
+| Lines | 99,81% | 1061 / 1063 |
 
 ![Relatório de cobertura](docs/evidencias/cobertura.png)
 
 **Quality gate.** O job `Qualidade (SonarQube)` do CI sobe um SonarQube, aplica o gate "Cobertura
-80" e reprova o PR se a cobertura ficar abaixo de 80% (branches incluídas). O último run verde do
-CI do PR que levou esta versão à `develop` (lint, build, testes unitários e BDD, integração,
-contratos sincronizados e o job do quality gate) está em
-[actions/runs/41743757368](https://github.com/FIAP-POS-TECH-SOFTWARE-ARCHITECTURE/tc-oficina-billing-service/actions/runs/41743757368).
+80" e reprova o PR se a cobertura ficar abaixo de 80% (branches incluídas). Os runs do CI (lint,
+build, testes unitários e BDD, integração, contratos sincronizados e o job do quality gate) ficam
+em [actions/workflows/ci.yml](https://github.com/FIAP-POS-TECH-SOFTWARE-ARCHITECTURE/tc-oficina-billing-service/actions/workflows/ci.yml).
 
 ## Deploy ✱
 
@@ -207,7 +223,8 @@ HPA de 1 a 4 réplicas por CPU (70%) — mesma estratégia do restante da soluç
 `mensageria/eventos-topic-arn`, `mensageria/billing-comandos-url` e `billing/dynamodb-table`. O
 CD escreve `billing-service-lb-hostname` para o gateway. O `terraform apply` da infraestrutura é
 manual, em `tc-oficina-infra-k8s` e `tc-oficina-infra-db`; este pipeline faz só o deploy da
-aplicação.
+aplicação. O CD ainda não leva as credenciais do Mercado Pago para o Secret: até isso entrar, o
+serviço no cluster sobe com o gateway simulado (log `billing.pagamento.gateway-simulado`).
 
 ## API ✱
 
@@ -216,10 +233,11 @@ Swagger: `/billing/docs` (JSON em `/billing/docs-json`) — pelo gateway,
 <http://localhost:3000/billing/docs> (`npm run start:dev`). O gateway repassa `/billing/*` a este
 serviço sem reescrever o caminho. As rotas estão na tabela da seção [Comunicação](#comunicação-).
 
-**Collection:** ainda não há collection Bruno/Postman para as rotas do billing; a do restante da
-solução está em
-[`tc-oficina-os-service/bruno`](https://github.com/FIAP-POS-TECH-SOFTWARE-ARCHITECTURE/tc-oficina-os-service/tree/main/bruno)
-e não cobre `/billing`.
+**Collection:** [`bruno/Oficina-Billing`](bruno/Oficina-Billing) (Bruno) e o export
+[`bruno/oficina-billing.postman_collection.json`](bruno/oficina-billing.postman_collection.json)
+(Postman v2.1), com o fluxo completo: login, consulta, aprovação, rejeição, reconciliação e a
+notificação do webhook assinada. A do restante da solução está em
+[`tc-oficina-os-service/bruno`](https://github.com/FIAP-POS-TECH-SOFTWARE-ARCHITECTURE/tc-oficina-os-service/tree/main/bruno).
 
 ## Links ✱
 
